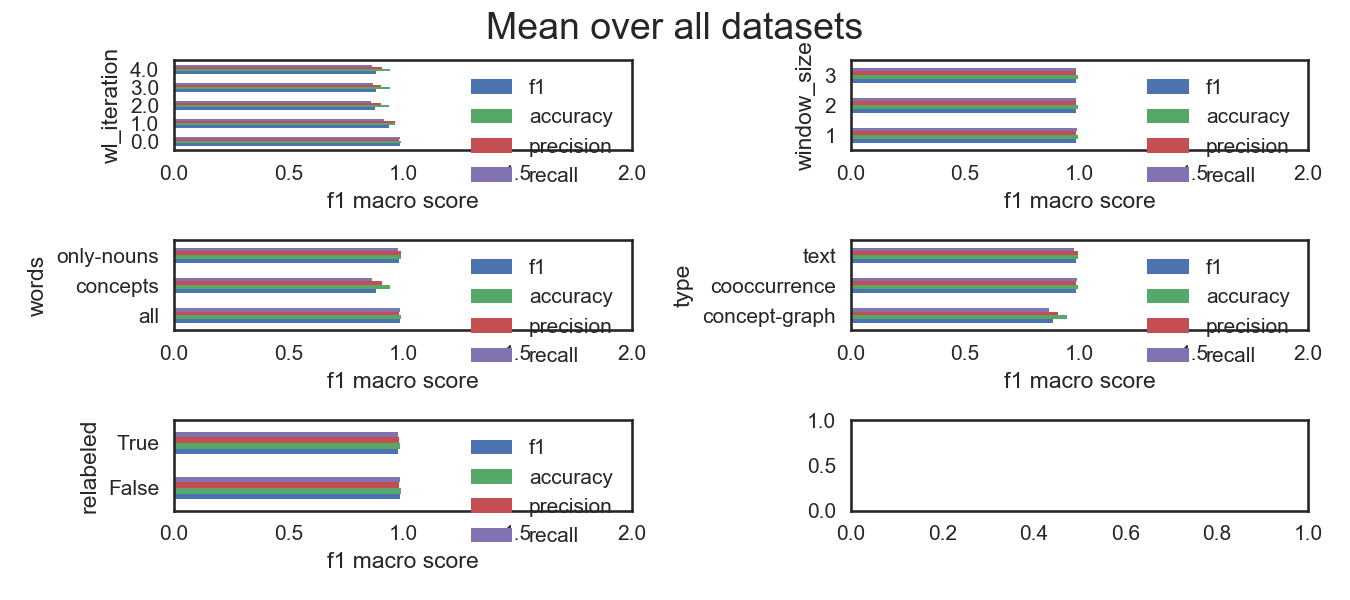
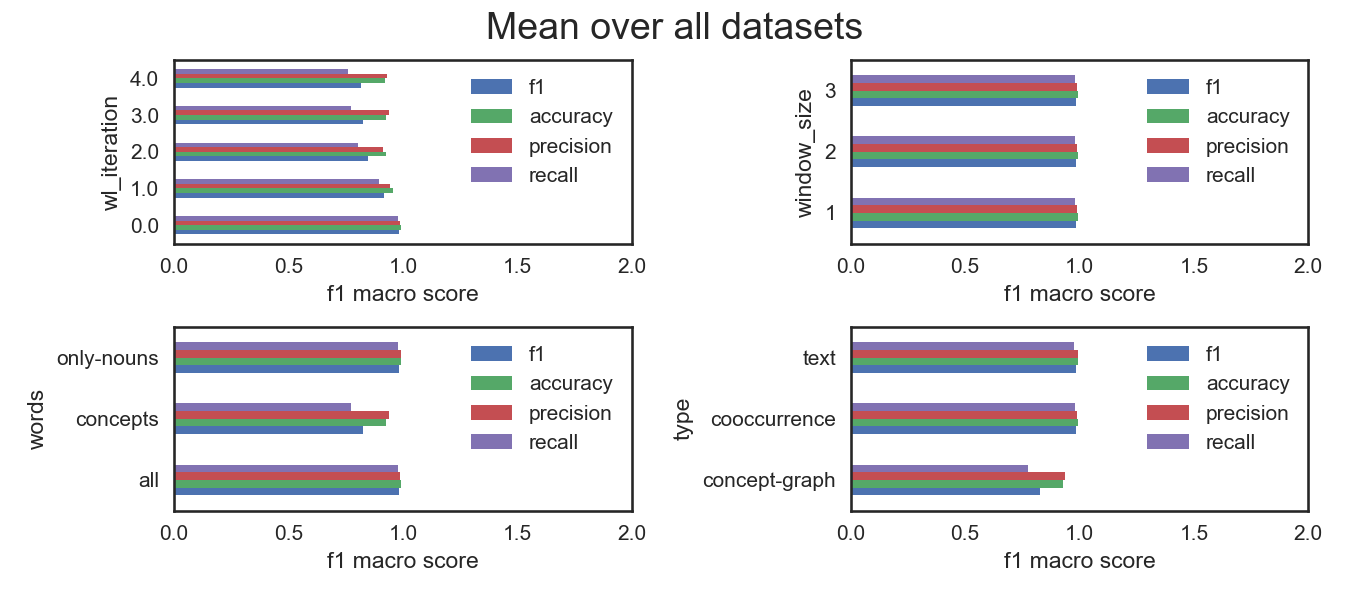
Added more classifiers (Naive Bayes)

diff --git a/code/run-classification.py b/code/run-classification.py
@@ -17,6 +17,7 @@ import logging
 import scipy
 from scipy import sparse
 from sklearn import dummy
+from sklearn import naive_bayes
 from sklearn.pipeline import Pipeline
 from sklearn.linear_model import Perceptron
 from sklearn.model_selection import GridSearchCV
@@ -70,6 +71,8 @@ def main():
 
     clfs = [
         sklearn.dummy.DummyClassifier(strategy='most_frequent'),
+        sklearn.naive_bayes.MultinomialNB(),
+        sklearn.naive_bayes.GaussianNB(),
         #sklearn.svm.SVC(max_iter = args.max_iter, tol=args.tol),
         #sklearn.linear_model.Perceptron(class_weight='balanced', max_iter=args.max_iter, tol=args.tol),
         #sklearn.linear_model.LogisticRegression(class_weight = 'balanced', max_iter=args.max_iter, tol=args.tol),
@@ -84,7 +87,7 @@ def main():
         gscv_result = gscv.fit(X, Y)
 
         # Get predictions of best classifier in the grid search for a test set
-        train_index, test_index = next(cv.split(X, Y))
+        train_index, test_index = list(cv.split(X, Y))[-1]
 
         if scipy.sparse.issparse(X):
             X_test, Y_test = X[test_index], np.array(Y, dtype = object)[test_index]
